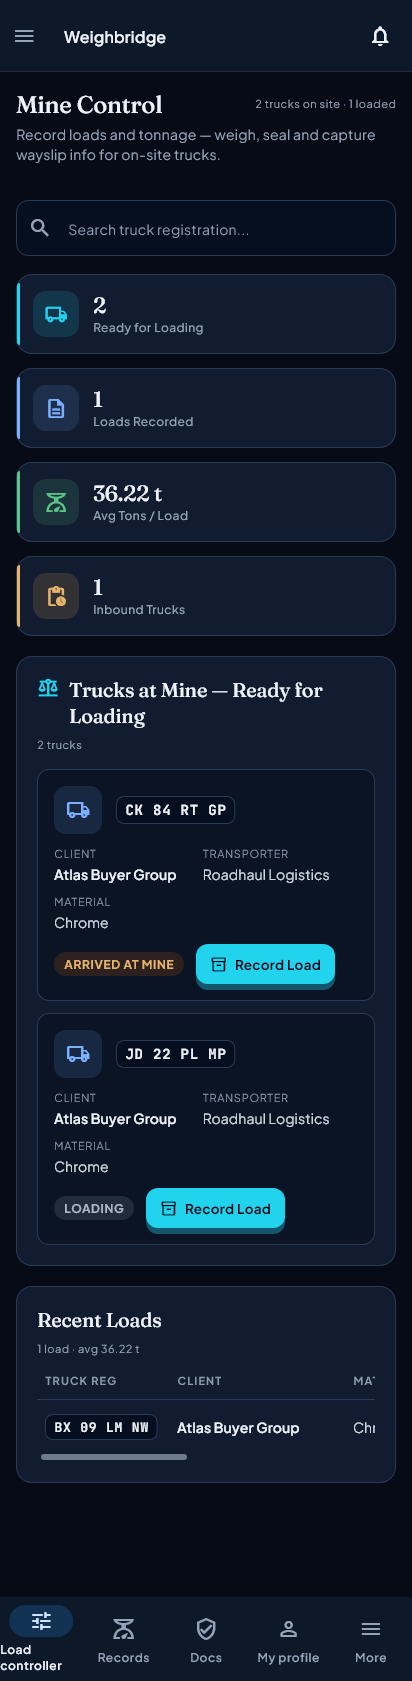
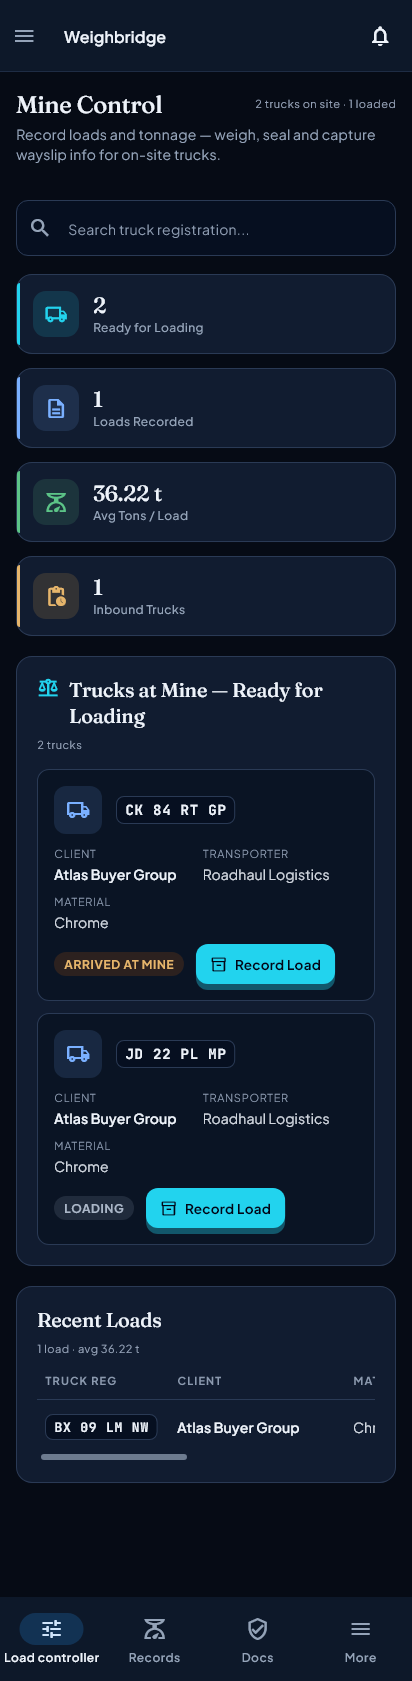
fix(shell): the phone's bottom bar showed "Dashboar / d", so it now carries as many destinations as fit
Photographed on Jean's SM-G780G on 2026-08-22, signed in as the platform
admin. The console's bottom bar read:

    Dashboar
    d          Insights   Requests   Access   More

One word broken between two letters, and painted from x=0 rather than centred
in its slot. `bottom_nav_labels_test.dart` has forbidden exactly that since
2026-08-21 — and it was green.

## Why the test was green

Two reasons, and both are the "a check you have not sabotaged is a check you do
not have" trap wearing a new hat.

1. **It swept text scales 1.0 and 1.3 and nothing between.** Measured across
   every tree this product builds, the first one-word break at 412px is at
   scale **1.2**; at 360px with bold text it is at **1.05**. The entire band
   1.05–1.2 — where a reader who nudged the slider actually sits — was
   unswept. Two samples at the ends of a range say nothing about the middle,
   which is the same shape as the overflow sweep that passed with the fix
   removed because 1100px, not 360, was the worst width.
2. **It switched the one-word rule OFF at 1.3**, deliberately and with a
   reason: at 1.3 on a 360px phone a 72px slot cannot hold "Dashboard",
   "Logistics" or "Stockpiles" either, and abbreviating four ordinary English
   words until they stop naming anything is worse than a wrapped one.

That second argument is sound. Its conclusion was wrong, because it assumed the
only two options were shorter words or smaller text.

## The third way out
[…]

diff --git a/test/widgets/bottom_nav_labels_test.dart b/test/widgets/bottom_nav_labels_test.dart
@@ -57,6 +57,7 @@ void main() {
     List<MlNavNode> tree,
     double width,
     double textScale,
+    bool boldText,
   ) async {
     tester.view.physicalSize = Size(width, 900);
     tester.view.devicePixelRatio = 1.0;
@@ -68,6 +69,12 @@ void main() {
         data: MediaQueryData(
           size: Size(width, 900),
           textScaler: TextScaler.linear(textScale),
+          // The console offers bold text as a reader setting, and it is the
+          // difference between fitting and not: measured on 2026-08-22, a
+          // 360px phone at scale 1.05 breaks "Dashboard" with bold on and not
+          // with it off. Sweeping only the unbolded case would have left that
+          // reader unprotected by exactly one setting.
+          boldText: boldText,
         ),
         child: MlAppShell(
           tree: tree,
@@ -84,23 +91,43 @@ void main() {
     await tester.pump(const Duration(milliseconds: 400));
   }
 
-  /// The labels the bar is showing, in order. Mirrors `_bottomDestinations`.
-  List<String> barLabels(List<MlNavNode> tree) =>
-      [...tree.take(4).map((n) => n.compactLabel), 'More'];
+  /// The labels the bar is ACTUALLY showing, read off the rendered
+  /// `NavigationDestination`s.
+  ///
+  /// It used to mirror `_bottomDestinations` by hand — `tree.take(4)` plus
+  /// "More" — and that stopped being true on 2026-08-22, when the bar started
+  /// dropping a destination rather than letting a label break in half. A test
+  /// that predicts what the widget will draw is testing its own copy of the
+  /// widget; this one reads the widget.
+  List<String> barLabels(WidgetTester tester) => tester
+      .widgetList<NavigationDestination>(find.descendant(
+        of: find.byType(NavigationBar),
+        matching: find.byType(NavigationDestination),
+      ))
+      .map((d) => d.label)
+      .toList();
 
   // 360 is the narrowest phone this product supports. 412 is the width the
   // renders are taken at, and the width the fault was found at — both, because
   // a label can fit one and not the other.
   // 1.3 is the top of `ConsolePrefs.textScale`. A bar whose height is a
   // constant can only be right at one of these.
-  for (final width in const [360.0, 412.0]) {
-    for (final textScale in const [1.0, 1.3]) {
+  // THE BAND BETWEEN 1.0 AND 1.3 WAS NEVER SWEPT, and that is where the fault
+  // photographed on a real handset on 2026-08-22 lives. Measured across every
+  // tree: the first one-word break at 412px is at 1.2, and at 360px it is at
+  // 1.05 with bold text on. Two samples at the ends of a range say nothing
+  // about the middle of it — the same shape as the overflow sweep that passed
+  // with the fix removed because 1100px, not 360, was the worst width.
+  for (final width in const [360.0, 384.0, 412.0]) {
+    for (final textScale in const [0.85, 1.0, 1.05, 1.1, 1.15, 1.2, 1.3]) {
+     for (final boldText in const [false, true]) {
       testWidgets('no bottom-nav label is clipped or collides at '
-          '${width.toInt()}px x $textScale', (tester) async {
+          '${width.toInt()}px x $textScale'
+          '${boldText ? ' bold' : ''}', (tester) async {
       final problems = <String>[];
 
       for (final entry in trees().entries) {
-        await pumpBar(tester, entry.value, width, textScale);
+        await pumpBar(tester, entry.value, width, textScale, boldText);
 
         final barFinder = find.byType(NavigationBar);
         expect(barFinder, findsOneWidget,
@@ -109,7 +136,7 @@ void main() {
         final bar = tester.getRect(barFinder);
 
         final rects = <String, Rect>{};
-        for (final label in barLabels(entry.value)) {
+        for (final label in barLabels(tester)) {
           final f = find.descendant(
               of: barFinder, matching: find.text(label));
           if (f.evaluate().isEmpty) {
@@ -135,7 +162,7 @@ void main() {
                 '${oneLine.toStringAsFixed(1)}px) — give the node a '
                 'shortLabel');
           }
-          // A SINGLE WORD BROKEN IN HALF, at the size text is read at.
+          // A SINGLE WORD BROKEN IN HALF, at ANY size text is read at.
           //
           // Two lines are allowed above, and the bar is sized for them —
           // because a label like "Loads & value" breaks at its space and both
@@ -148,31 +175,41 @@ void main() {
           //
           // with the orphaned "n" on the bar's bottom edge. That passes every
           // rule above — two lines, inside the bar, no overlap — and reads as
-          // a corrupted string rather than a destination. Found 2026-08-21 in
-          // `screen-buyer-waybills-phone-dark.png`, which is the first time
-          // anybody had looked at one.
+          // a corrupted string rather than a destination.
           //
-          // **Only at text scale 1.0**, and that is a decision rather than an
-          // oversight. Flutter's `NavigationBar` clamps its label scaling at
-          // 1.3, so 1.3 is the real ceiling — and at 1.3 on a 360px phone the
-          // 72px slot cannot hold "Dashboard", "Logistics" or "Stockpiles" on
-          // one line either. The only ways out of that are to abbreviate
-          // ordinary English words until they stop naming anything, or to move
-          // half the destinations behind "More" for anyone who turned their
-          // text up. Both are worse than a word wrapping. The bar is sized for
-          // two lines precisely so the large-text case degrades legibly; what
-          // this rule protects is the size the product is actually read at.
+          // ## This rule used to be switched off above text scale 1.0
+          //
+          // The reasoning was sound and the conclusion was wrong. It said that
+          // at 1.3 on a 360px phone a 72px slot cannot hold "Dashboard",
+          // "Logistics" or "Stockpiles" either, and that the only ways out
+          // were abbreviating ordinary English until it stops naming anything,
+          // or hiding half the destinations from anyone who turned their type
+          // up. Both are worse than a wrapped word, so the rule was limited to
+          // 1.0 — and that limit is exactly why a real SM-G780G could show
+          //
+          //     Dashboar
+          //     d
+          //
+          // to the platform admin on 2026-08-22 with this file green.
+          //
+          // There was a third way out. The slot is `width / 5` because the bar
+          // always showed four destinations plus More, whatever the reader's
+          // type size. It now shows as many as FIT (`_bottomDestinations` in
+          // `ml_app_shell.dart`): three plus More is 103px a tile at 412, two
+          // is 137px, and the destination that steps out is one tap away in
+          // the drawer with its badge folded into More's. Nothing is renamed,
+          // nothing shrinks, and the rule can hold at every size.
           //
           // 1.4 rather than 2.4: this is "more than one line", not "more than
           // two".
           if (oneLine != null &&
-              textScale == 1.0 &&
               !e.key.contains(' ') &&
               e.value.height > oneLine * 1.4) {
             problems.add('${entry.key}: "${e.key}" is ONE WORD and does not '
                 'fit on one line (${e.value.height.toStringAsFixed(1)}px '
                 'against a one-line ${oneLine.toStringAsFixed(1)}px), so it '
-                'is broken between two letters — give the node a shortLabel');
+                'is broken between two letters. The bar is meant to drop a '
+                'destination before this happens — see _bottomDestinations.');
           }
           // CLEARANCE, not merely "inside". At 412px the two-line labels ended
           // 2px from the bottom of the screen: not clipped by a measurement,
@@ -189,6 +226,15 @@ void main() {
                 '(${e.value.left.toStringAsFixed(1)}'
                 '..${e.value.right.toStringAsFixed(1)} of $width)');
           }
+        }
+
+        // THE BAR MUST STAY A BAR. Dropping destinations to make labels fit
+        // is only a good trade while there is still navigation in it; a bar
+        // showing nothing but "More" is a menu button pretending to be one.
+        if (rects.length < 3) {
+          problems.add('${entry.key}: the bar is down to ${rects.length} '
+              'destinations (${rects.keys.join(', ')}) — below two plus More '
+              'it has stopped being navigation');
         }
 
         // Two labels sharing horizontal space. A destination is a tap target;
@@ -213,6 +259,7 @@ void main() {
               'label stays on its long-press tooltip and in the drawer.\n'
               '  ${problems.join('\n  ')}');
       });
+     }
     }
   }
 

diff --git a/lib/core/design/shell/ml_app_shell.dart b/lib/core/design/shell/ml_app_shell.dart
@@ -202,8 +202,121 @@ class _MlAppShellState extends State<MlAppShell> {
   /// out instead put its full label in the bar, and "Mine/Supplier transport"
   /// wrapped to three lines at 412px, overlapping both neighbours and clipping
   /// at the bottom of the bar. `NavigationBar` does not ellipsize.
-  List<MlNavNode> get _bottomDestinations =>
-      widget.tree.take(4).toList(growable: false);
+  /// The fewest destinations the bar will ever show, before **More**. Two is
+  /// Material 3's own floor for a `NavigationBar`; below that it is not a bar.
+  static const int _minBottomDestinations = 2;
+
+  /// The most, per the M3 cap of five tiles including More.
+  static const int _maxBottomDestinations = 4;
+
+  /// `NavigationBar` clamps its own label scaling here
+  /// (`_kMaxLabelTextScaleFactor` in Flutter's `navigation_bar.dart`), so a
+  /// reader at 2.0 gets 1.3 and this is the widest a label can ever be.
+  static const double _labelScaleCeiling = 1.3;
+
+  List<MlNavNode> _bottomDestinations(BuildContext context) {
+    final all = widget.tree
+        .take(_maxBottomDestinations)
+        .toList(growable: false);
+    if (all.length <= _minBottomDestinations) return all;
+
+    // FEWER DESTINATIONS, NOT SMALLER OR SHORTER WORDS.
+    //
+    // Photographed on a real SM-G780G on 2026-08-22, signed in as the platform
+    // admin: the console's bar read
+    //
+    //     Dashboar
+    //     d
+    //
+    // — one word broken between two letters, which reads as a corrupted string
+    // rather than a destination. `bottom_nav_labels_test.dart` already forbids
+    // exactly that, and it did not catch this one for two reasons, both of them
+    // the "a check you have not sabotaged" trap in a new costume: it swept text
+    // scales 1.0 and 1.3 and nothing between, and it deliberately switched the
+    // one-word rule OFF at 1.3. Measured across every tree this product builds,
+    // the first break at 412px is at scale 1.2, and the band 1.05–1.2 was
+    // unswept.
+    //
+    // The old comment argued that abbreviating was worse than wrapping, and it
+    // was right — "Dashboard", "Operations", "Stockpiles" and "Production" are
+    // ordinary words with no honest short form, and a `shortLabel` for each
+    // would cost more than it bought. But those were not the only two options.
+    // The bar's problem is that five fixed tiles across 412px give each label
+    // 82px whatever the reader's type size, so the FOURTH destination is what
+    // does not fit — not the words.
+    //
+    // So the count adapts instead. Three destinations plus More is 103px a
+    // tile, two is 137px, and the destination that steps out is still one tap
+    // away in the drawer with its badge folded into More's — which is what
+    // More has always been for. Nothing is renamed, nothing shrinks, and a
+    // reader who turned their type size up gets larger text rather than a
+    // broken word.
+    //
+    // The arithmetic is exact rather than a fudge factor: Flutter lays each
+    // destination out in an `Expanded` (so a tile is exactly `width / n`) and
+    // the label carries `EdgeInsets.only(top: 4)` — no horizontal padding at
+    // all. If that ever stops being true the sweep in
+    // `bottom_nav_labels_test.dart` is what says so.
+    final width = MediaQuery.sizeOf(context).width;
+    for (var n = all.length; n > _minBottomDestinations; n--) {
+      final slot = width / (n + 1); // +1 for More
+      final labels = [
+        ...all.take(n).map((node) => node.compactLabel),
+        _moreLabel,
+      ];
+      if (labels.every((l) => _labelWidth(context, l) <= slot)) {
+        return all.take(n).toList(growable: false);
+      }
+    }
+    return all.take(_minBottomDestinations).toList(growable: false);
+  }
+
+  /// How wide [text] paints in the bar's label style, at the reader's own text
+  /// scale and bold-text setting.
+  ///
+  /// Measured against the SELECTED style as well as the resting one and the
+  /// wider of the two taken: M3 gives the selected destination its own
+  /// `labelTextStyle`, and the selected label is the one that was broken in
+  /// the photograph.
+  double _labelWidth(BuildContext context, String text) {
+    final theme = Theme.of(context);
+    final resolver = theme.navigationBarTheme.labelTextStyle;
+    final styles = <TextStyle?>[
+      resolver?.resolve(<WidgetState>{}) ?? theme.textTheme.labelMedium,
+      resolver?.resolve(<WidgetState>{WidgetState.selected}) ??
+          theme.textTheme.labelMedium,
+    ];
+    // `Text` merges FontWeight.bold itself when the platform asks for bold
+    // text, so a TextPainter that ignored it would under-measure for exactly
+    // the readers most likely to overflow.
+    final bold = MediaQuery.boldTextOf(context);
+    final scaler = MediaQuery.textScalerOf(context)
+        .clamp(maxScaleFactor: _labelScaleCeiling);
+
+    var widest = 0.0;
+    for (final style in styles) {
+      final painter = TextPainter(
+        text: TextSpan(
+          text: text,
+          style: bold
+              ? (style ?? const TextStyle())
+                  .copyWith(fontWeight: FontWeight.bold)
+              : style,
+        ),
+        textDirection: TextDirection.ltr,
+        textScaler: scaler,
+        maxLines: 1,
+      )..layout();
+      widest = widest > painter.width ? widest : painter.width;
+      painter.dispose();
+    }
+    return widest;
+  }
+
+  /// The drawer tab's label. Named once because [_bottomDestinations] has to
+  /// measure it and [_buildBottomBar] has to draw it, and a bar that measured
+  /// one string and painted a longer one would be measuring nothing.
+  static const String _moreLabel = 'More';
 
   /// Where a bottom destination goes: itself, or its first child.
   String? _bottomRoute(MlNavNode node) =>
@@ -506,7 +619,7 @@ class _MlAppShellState extends State<MlAppShell> {
   }
 
   Widget _buildBottomBar(BuildContext context) {
-    final destinations = _bottomDestinations;
+    final destinations = _bottomDestinations(context);
     final selectedIndex = () {
       for (var i = 0; i < destinations.length; i++) {
         if (_bottomSelected(destinations[i])) return i;
@@ -539,9 +652,9 @@ class _MlAppShellState extends State<MlAppShell> {
             tooltip: node.label,
           ),
         NavigationDestination(
-          icon: _maybeBadgeTotal(const Icon(Icons.menu_rounded)),
+          icon: _maybeBadgeTotal(context, const Icon(Icons.menu_rounded)),
           selectedIcon: const Icon(Icons.menu_open_rounded),
-          label: 'More',
+          label: _moreLabel,
           tooltip: 'All destinations',
         ),
       ],
@@ -555,13 +668,13 @@ class _MlAppShellState extends State<MlAppShell> {
 
   /// The More tab carries the badge for everything the bar cannot show, so a
   /// queue hidden behind it is still visible from the phone's home screen.
-  Widget _maybeBadgeTotal(Widget icon) {
+  Widget _maybeBadgeTotal(BuildContext context, Widget icon) {
     // Everything the bar does not stand for. A bottom destination stands for
     // its whole group, so subtract by group rather than by route — counting
     // routes would re-count every sibling of a shown group's first child as
     // "hidden" and inflate the More badge.
     final shownRoutes = <String>{
-      for (final node in _bottomDestinations)
+      for (final node in _bottomDestinations(context))
         for (final leaf in node.leaves)
           if (leaf.route != null) leaf.route!,
     };
